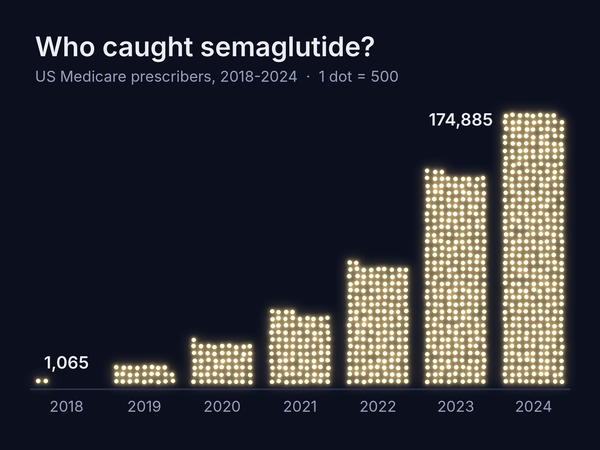
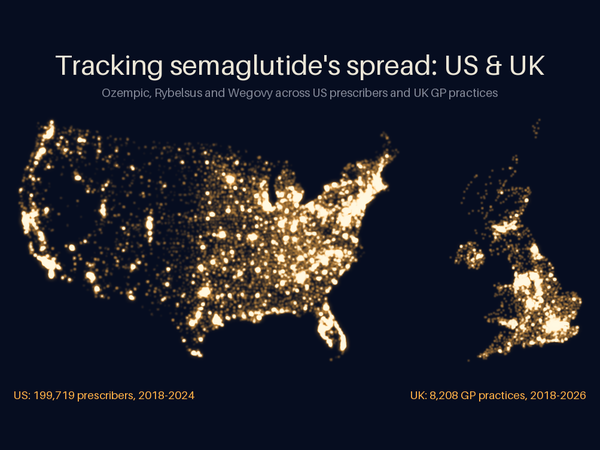
Use the semaglutide-spread social preview as its thumbnail (#5)
* Use the semaglutide-spread social preview as its thumbnail

Replace the flagship thumbnail with the project's night-lights social
preview, extended to 4:3 with its own background colour, update its title
and image description, and move the old thumbnail to deprecated.

* Shorten the semaglutide-spread project title

diff --git a/index.html b/index.html
@@ -92,10 +92,10 @@
 
                             <div class="item row">
                                 <a class="col-md-4 col-12" href="https://github.com/MyreLab/semaglutide-spread" target="_blank">
-                                    <img class="img-fluid project-image rounded shadow-sm" src="assets/images/projects/semaglutide-spread.png" alt="Glowing dot columns showing US Medicare prescribers of semaglutide growing from 1,065 in 2018 to 174,885 in 2024" />
+                                    <img class="img-fluid project-image rounded shadow-sm" src="assets/images/projects/semaglutide-spread.png" alt="Night-lights maps of the US and UK: each glowing dot is a US Medicare prescriber or UK GP practice that has prescribed semaglutide" />
                                 </a>
                                 <div class="desc col-md-8 col-12">
-                                    <h3 class="title"><a href="https://github.com/MyreLab/semaglutide-spread" target="_blank">Ozempic as an Outbreak: How Semaglutide Spread Through US and UK Prescribers</a>
+                                    <h3 class="title"><a href="https://github.com/MyreLab/semaglutide-spread" target="_blank">How Ozempic Spread Across the US and UK, Tracked Like an Epidemic</a>
                                         <span class="badge badge-theme">In progress</span>
                                     </h3>
                                     <p class="mb-2">Epidemiologists track who catches a disease first, how fast it spreads, and where. This project asks the same questions about semaglutide: when did each US prescriber and UK GP practice start prescribing it, and how quickly did adoption move across the map?</p>
